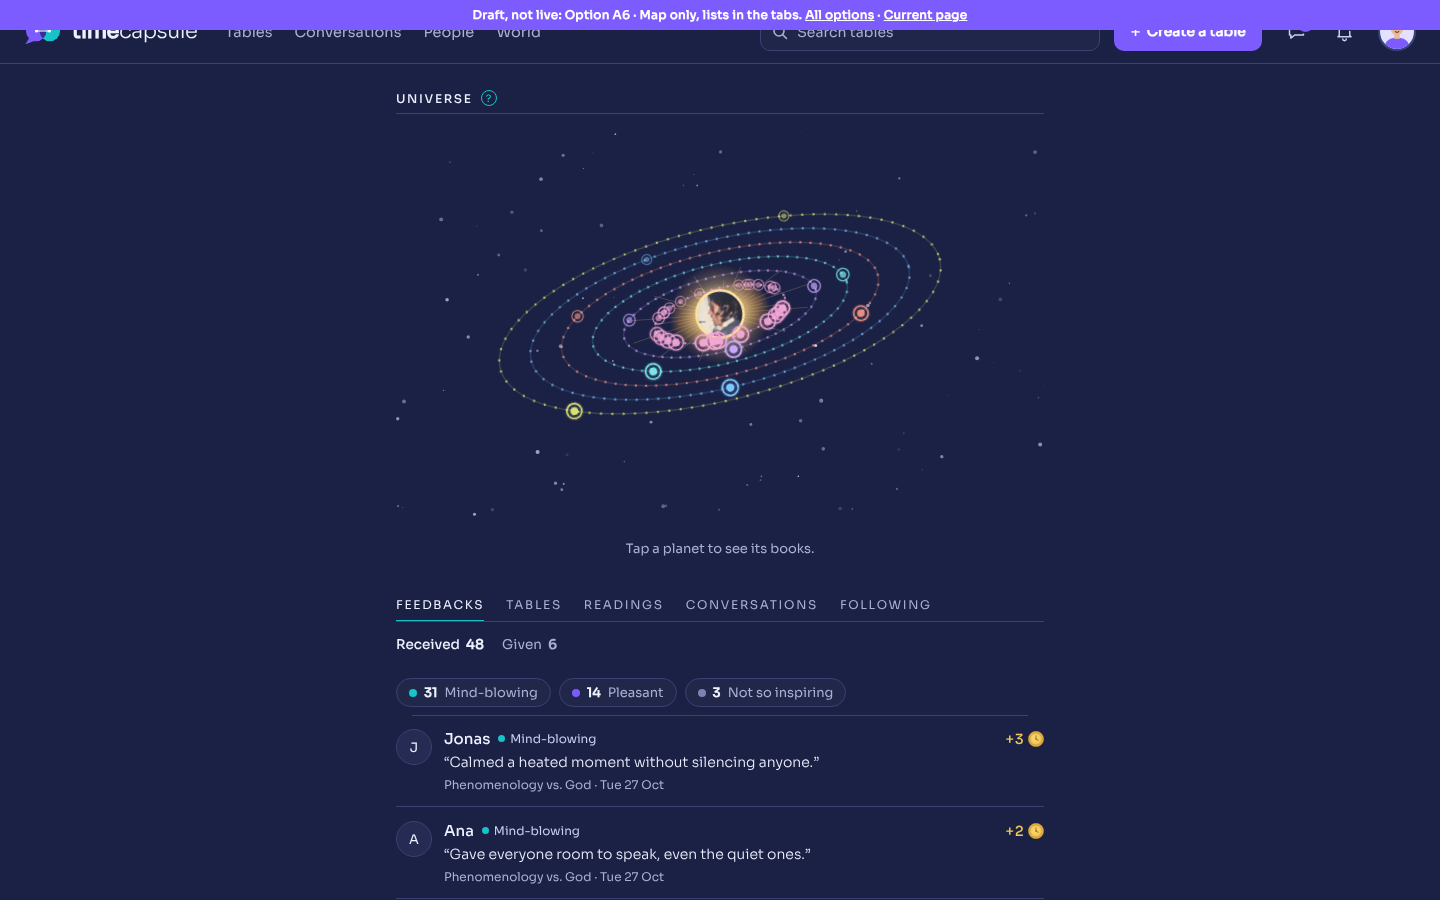
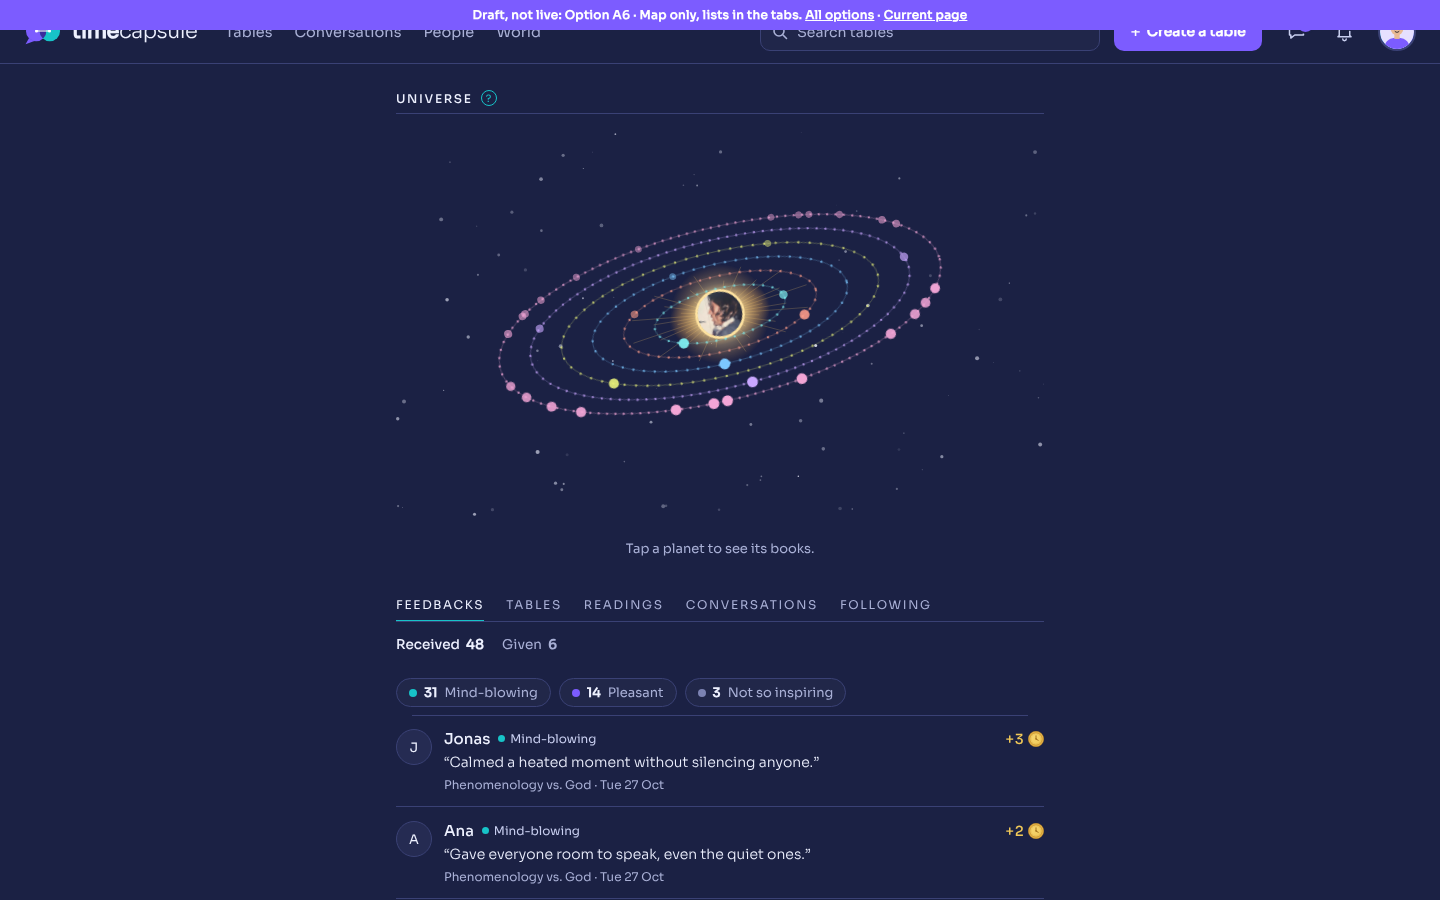
Profile option A6: more books on outer orbits, plain dots for planets
Claude-Session: https://claude.ai/code/session_018eq6NgwUiJJnwPF1moeBy1

diff --git a/profile-options/option-a6.html b/profile-options/option-a6.html
@@ -1360,13 +1360,13 @@ function universe(){
  for(var r=0;r<36;r++){var a=r/36*Math.PI*2,len=18+(r%3)*10;el("line",{x1:cx,y1:cy,x2:(cx+Math.cos(a)*len*1.6).toFixed(1),y2:(cy+Math.sin(a)*len*.75).toFixed(1),stroke:"#F7C66B","stroke-opacity":".22","stroke-width":".6"},sunG)}
  el("ellipse",{cx:cx,cy:cy,rx:34,ry:20,fill:"url(#sun)"},sunG);
  var avg=sunAv(sys,orbs,cx,cy);
- var R=[],O=[];T.forEach(function(th,i){var rx=44+i*21;R.push(rx);var col=PAL[i];
+ var R=[],O=[],RK=T.map(function(x,i){return i}).sort(function(p,q){return T[p].b.length-T[q].b.length||p-q});T.forEach(function(th,i){var rx=44+RK.indexOf(i)*21;R.push(rx);var col=PAL[i];
   O.push([el("ellipse",{cx:cx,cy:cy,rx:rx,ry:rx*K,fill:"none",stroke:col,"stroke-opacity":".28","stroke-width":".6"},orbs),
           el("ellipse",{cx:cx,cy:cy,rx:rx,ry:rx*K,fill:"none",stroke:col,"stroke-opacity":".7","stroke-width":"1.6","stroke-linecap":"round","stroke-dasharray":"0 "+(5.5+i*.4).toFixed(1)},orbs)])});
  var M=[],seed2=3;function r2(){seed2=(seed2*9301+49297)%233280;return seed2/233280}
  T.forEach(function(th,i){th.b.forEach(function(bk,j){
   var col=PAL[i],g=el("g",{"class":"bk",tabindex:"0",role:"button","aria-label":bk[0]+BY()+bk[1]+", "+th.n},front);
-  el("circle",{r:6.5,fill:col,opacity:".12"},g);el("circle",{r:5,fill:"none",stroke:col,"stroke-width":"1.1"},g);el("circle",{"class":"core",r:2.6,fill:col},g);el("circle",{r:12,fill:"transparent"},g);
+  el("circle",{"class":"core",r:3.4,fill:col},g);el("circle",{r:12,fill:"transparent"},g);
   var fn=function(){if(!U.list){utip.hidden=true;U.tipf=null;U.list=true;ulink.hidden=false;ulink.textContent="‹ Back";morph(1,function(){rows();var d=ulay.querySelector('.udot[data-i="'+i+'"][data-j="'+j+'"]');if(d)U.showDot(d)})}};
   var tin=function(){if(U.list||U.e>0)return;var u=s.parentNode.getBoundingClientRect(),r=g.getBoundingClientRect(),x=r.left+r.width/2-u.left,y=r.top+r.height/2-u.top;
    utip.innerHTML="<b>"+esc(bk[0])+"</b><small>"+esc(bk[1])+"</small>";utip.style.setProperty("--c",col);utip.style.left=Math.min(Math.max(x/u.width*100,28),72)+"%";utip.style.top=y+"px";utip.classList.toggle("dn",y<70);utip.hidden=false;U.tipf=tin},

diff --git a/profile-options/build.py b/profile-options/build.py
@@ -16,6 +16,17 @@ for k,label in names.items():
                     ('goal=Math.min(1,Math.max(.08,(d-8)/70))','goal=Math.min(1,Math.max(0,(d-8)/70))')]:
             assert page.count(a)==1,a
             page=page.replace(a,b)
+    if k=='a6':
+        # topics with more books sit on outer orbits (map only; lists keep their order)
+        a='var R=[],O=[];T.forEach(function(th,i){var rx=44+i*21;'
+        b='var R=[],O=[],RK=T.map(function(x,i){return i}).sort(function(p,q){return T[p].b.length-T[q].b.length||p-q});T.forEach(function(th,i){var rx=44+RK.indexOf(i)*21;'
+        assert page.count(a)==1,a
+        page=page.replace(a,b)
+        # plain dot per book, no halo or ring around it
+        a='el("circle",{r:6.5,fill:col,opacity:".12"},g);el("circle",{r:5,fill:"none",stroke:col,"stroke-width":"1.1"},g);el("circle",{"class":"core",r:2.6,fill:col},g);'
+        b='el("circle",{"class":"core",r:3.4,fill:col},g);'
+        assert page.count(a)==1,a
+        page=page.replace(a,b)
     if k in ('a3','a4','a5','a6'):
         # expose the universe data so the topic rows can be built from it
         for a,b in [('var RT=T,MODE="read",LT=','var RT=window.__RT=T,MODE="read",LT=window.__LT='),
